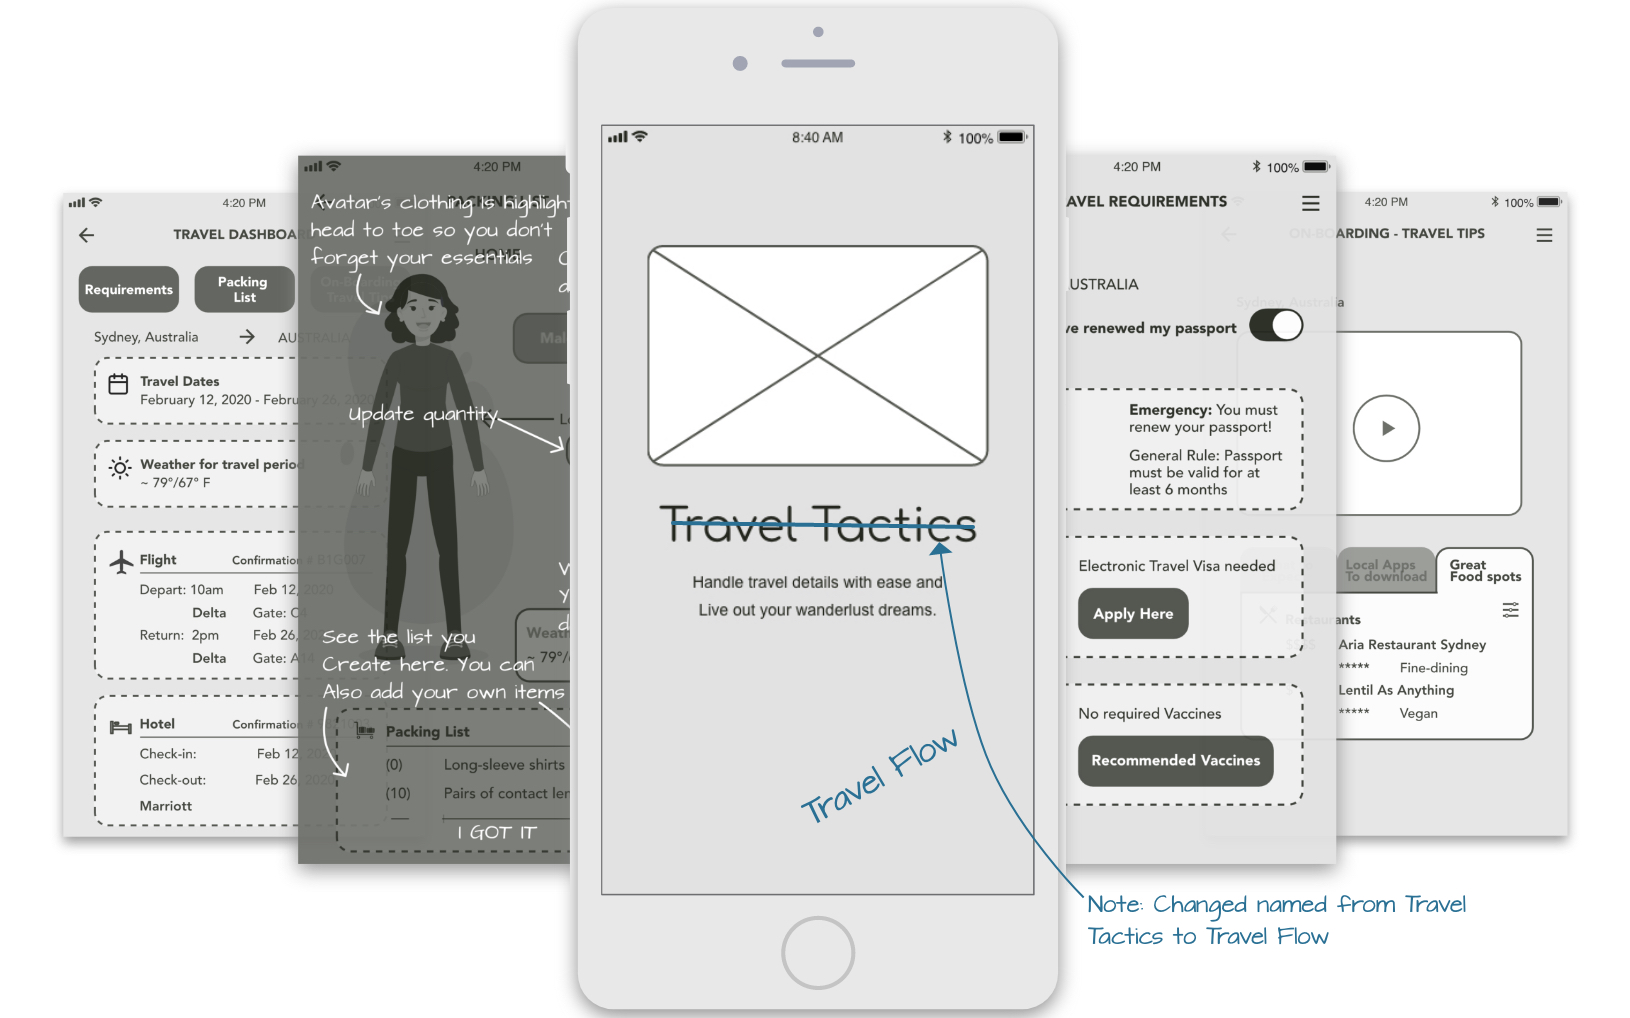
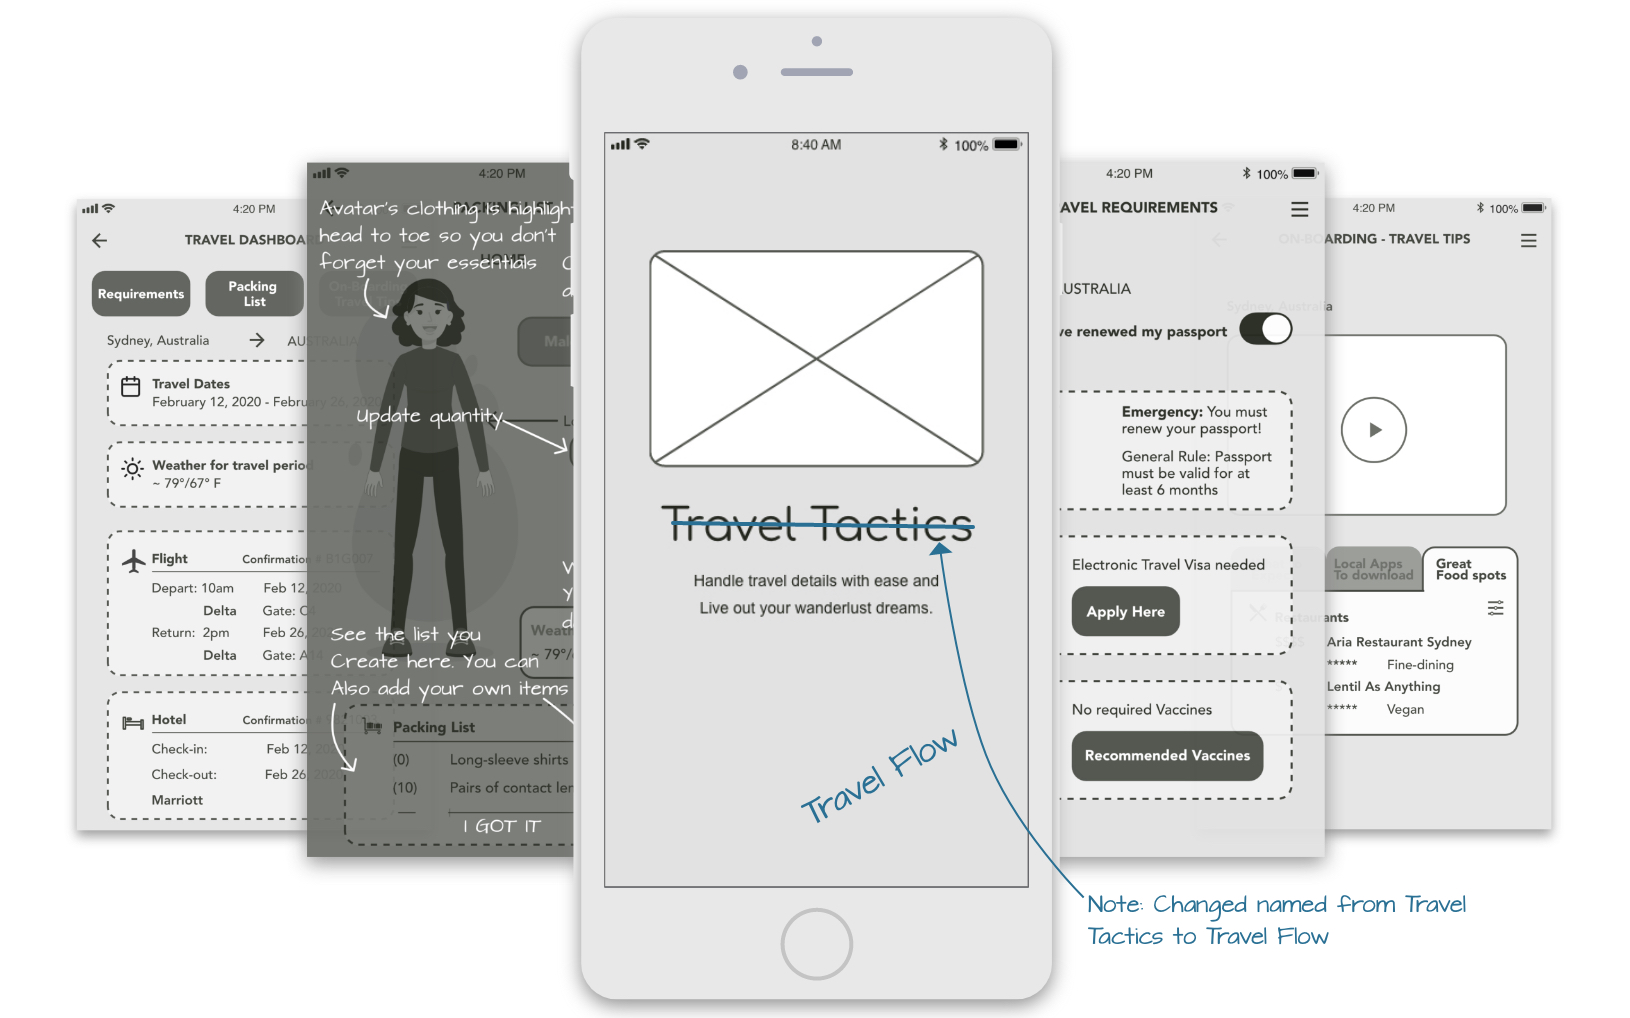
updated case study wireframe

diff --git a/case-TA.html b/case-TA.html
@@ -617,7 +617,7 @@
                         <div class="col-12 col-lg-6 d-flex justify-content-center justify-content-lg-start align-self-center">
                             <div>
                                 <h3 class="data-title text-center">Digital Wireframe</h3>
-                                <img class="artifact img-fluid" src="images/case-TA-digitalwireframe.jpg" alt="digital wireframes">
+                                <img class="artifact img-fluid" src="images/case-TA-digitalwireframe@2x.jpg" alt="digital wireframes">
                             </div>
                         </div>
 
